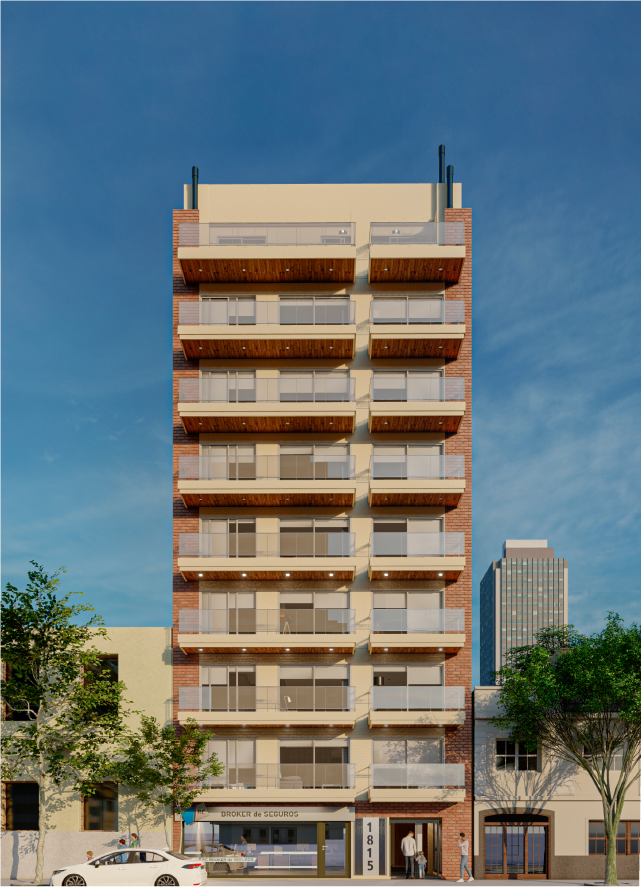
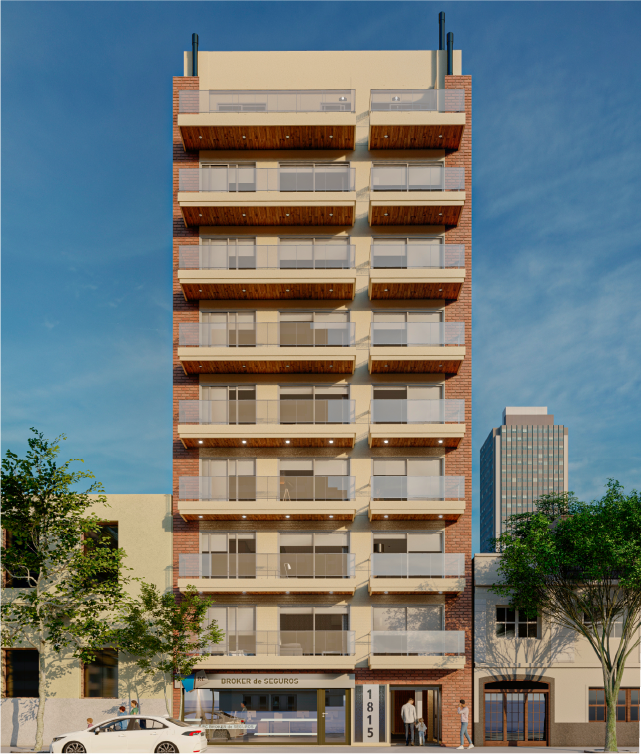
Update image

diff --git a/src/pages/home/Section02.tsx b/src/pages/home/Section02.tsx
@@ -2,15 +2,15 @@ import backgroundImg from "@/assets/images/render.png"; // o el path correspondi
 
 export function Section02() {
     return (
-        <div className="grid md:grid-rows-2 md:grid-cols-2 w-screen lg:min-h-[1200px] lg:max-h-[1200px]">
+        <div className="grid md:grid-rows-2 md:grid-cols-2 w-screen h-full">
             {/* DIV 1 */}
-            <div className="bg-[#f4f4f4] flex items-center justify-center order-1 md:row-start-1 md:col-start-1 py-[100px] xl:py-[150px]  px-0 h-fit md:h-full">
+            <div className="bg-[#f4f4f4] flex items-center justify-center order-1 md:row-start-1 md:col-start-1 py-[100px] xl:py-[50px]  px-0 h-fit md:h-full">
                 <div className="flex flex-col justify-center items-center w-[80%]">
                     <div className="flex items-start flex-col gap-4 pl-5 border-l-4 border-l-[#082746]">
-                        <h2 className="text-2xl xl:text-3xl max-w-[340px]">
+                        <h2 className="text-2xl xl:text-3xl max-w-[320px]">
                             DEPARTAMENTOS DE 1 Y 3 AMBIENTES
                         </h2>
-                        <p className="max-w-[340px] xl:max-w-[400px] text-sm xl:text-lg text-[#1e1e1e]">
+                        <p className="max-w-[340px] xl:max-w-[500px] text-sm xl:text-lg text-[#1e1e1e]">
                             Emprendimiento destinado a viviendas multifamiliares
                             y aptos profesionales con unidades monoambientes de
                             39 m2 y unidades de 3 ambientes de 87 m2.
@@ -21,25 +21,25 @@ export function Section02() {
 
             {/* DIV 2 */}
             <div
-                className="w-full h-[600px] md:h-full bg-cover bg-[bottom] bg-no-repeat py-4 px-4 flex items-center justify-center order-2 md:row-span-2 md:col-start-2"
+                className="w-full min-h-[140vw] md:min-w-0 md:aspect-[641/887] md:min-h-[887px] bg-cover bg-bottom bg-no-repeat py-4 px-4 flex items-center justify-center order-2 md:row-span-2 md:col-start-2"
                 style={{ backgroundImage: `url(${backgroundImg})` }}
             >
                 <div className="flex flex-col justify-center items-center border-2 w-full h-full border-[#bb9f7c]"></div>
             </div>
 
             {/* DIV 3 */}
-            <div className="bg-[#f4f4f4] md:bg-[#082746]  flex items-center justify-center order-3 md:row-start-2 md:col-start-1 py-[100px] xl:py-[150px] px-0 h-fit md:h-full">
+            <div className="bg-[#f4f4f4] md:bg-[#082746]  flex items-center justify-center order-3 md:row-start-2 md:col-start-1 py-[100px] xl:py-[50px] px-0 h-fit md:h-full">
                 <div className="flex flex-col justify-center items-center w-[80%]">
                     <div className="flex items-start flex-col gap-4 pl-5 border-l-4 border-l-[#082746] md:border-l-[#f4f4f4]">
                         <h2 className="text-2xl xl:text-3xl max-w-[340px]">
                             UBICACIÓN
                         </h2>
-                        <p className="max-w-[340px] xl:max-w-[380px] text-sm xl:text-lg text-[#1e1e1e] md:text-[#f4f4f4]">
+                        <p className="max-w-[340px] xl:max-w-[500px] text-sm xl:text-lg text-[#1e1e1e] md:text-[#f4f4f4]">
                             En una ubicación estratégica en una de las áreas mas
-                            conectadas de la ciudad.
-                            <br />A pocas cuadras de las estaciones del Subte
-                            Línea A, Línea H. Está próximo a avenidas
-                            principales como Carabobo, Directorio y Rivadavia.
+                            conectadas de la ciudad. A pocas cuadras de las
+                            estaciones del Subte Línea A, Línea H. Está próximo
+                            a avenidas principales como Carabobo, Directorio y
+                            Rivadavia.
                         </p>
                     </div>
                 </div>
